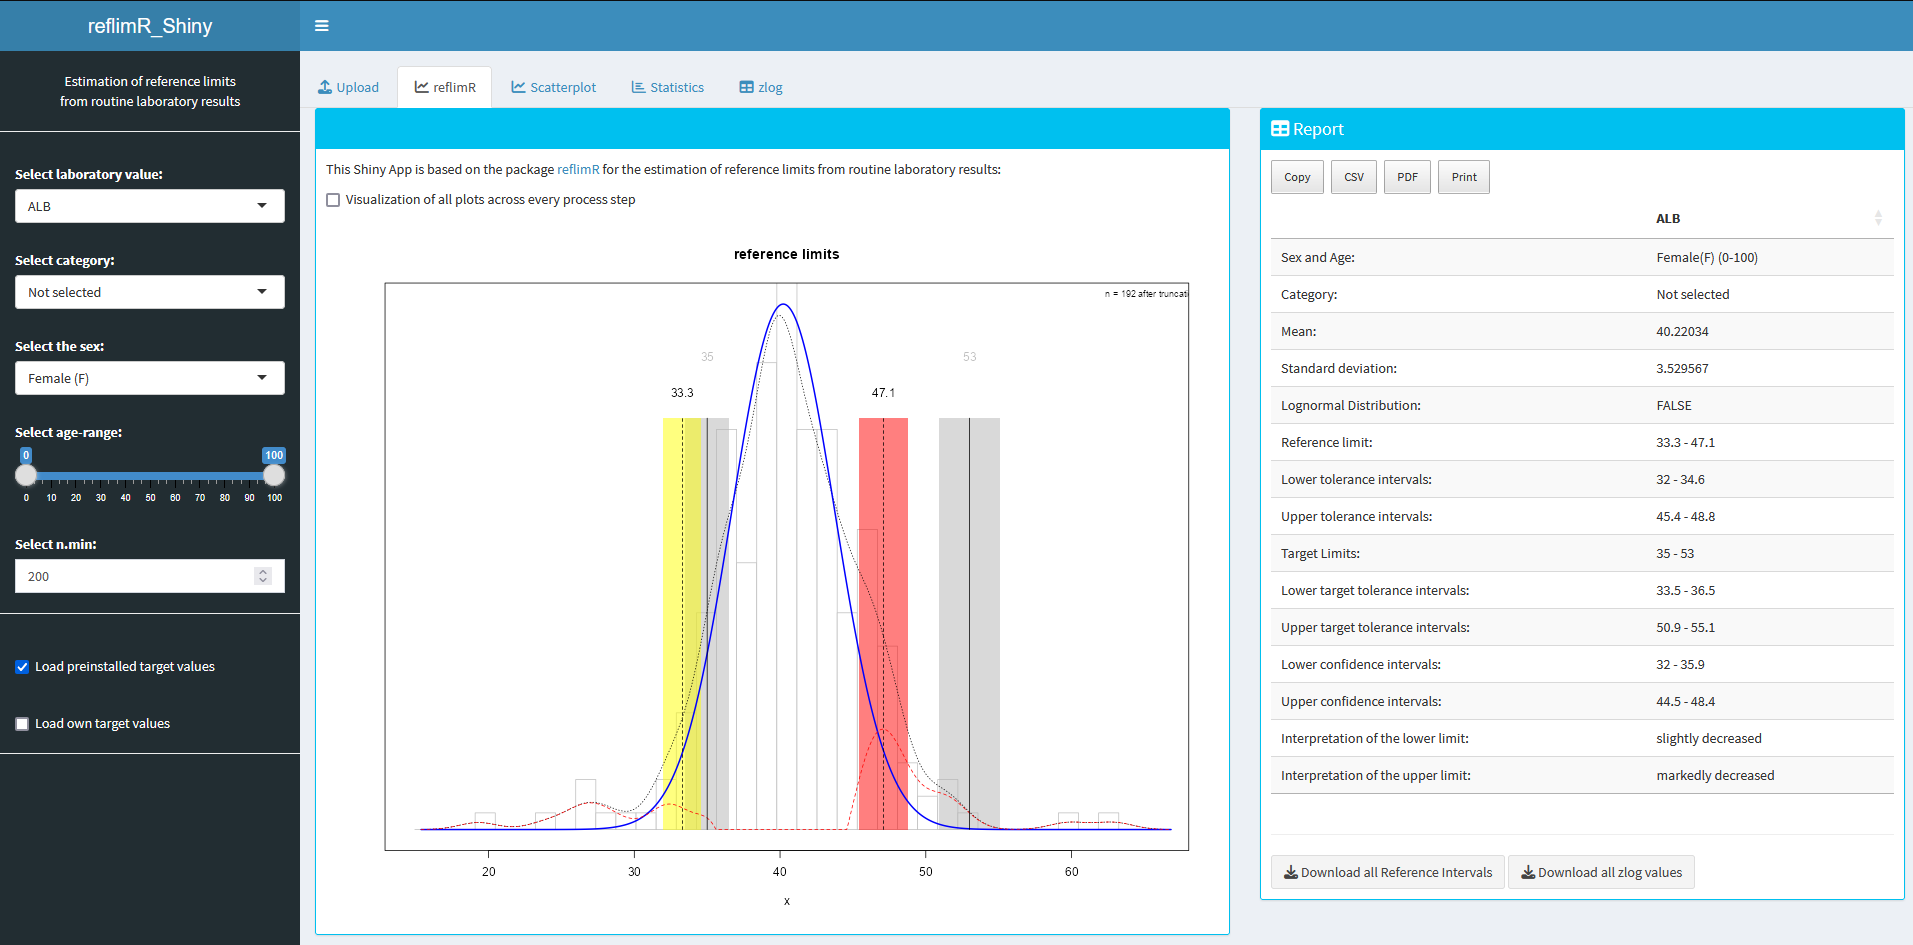
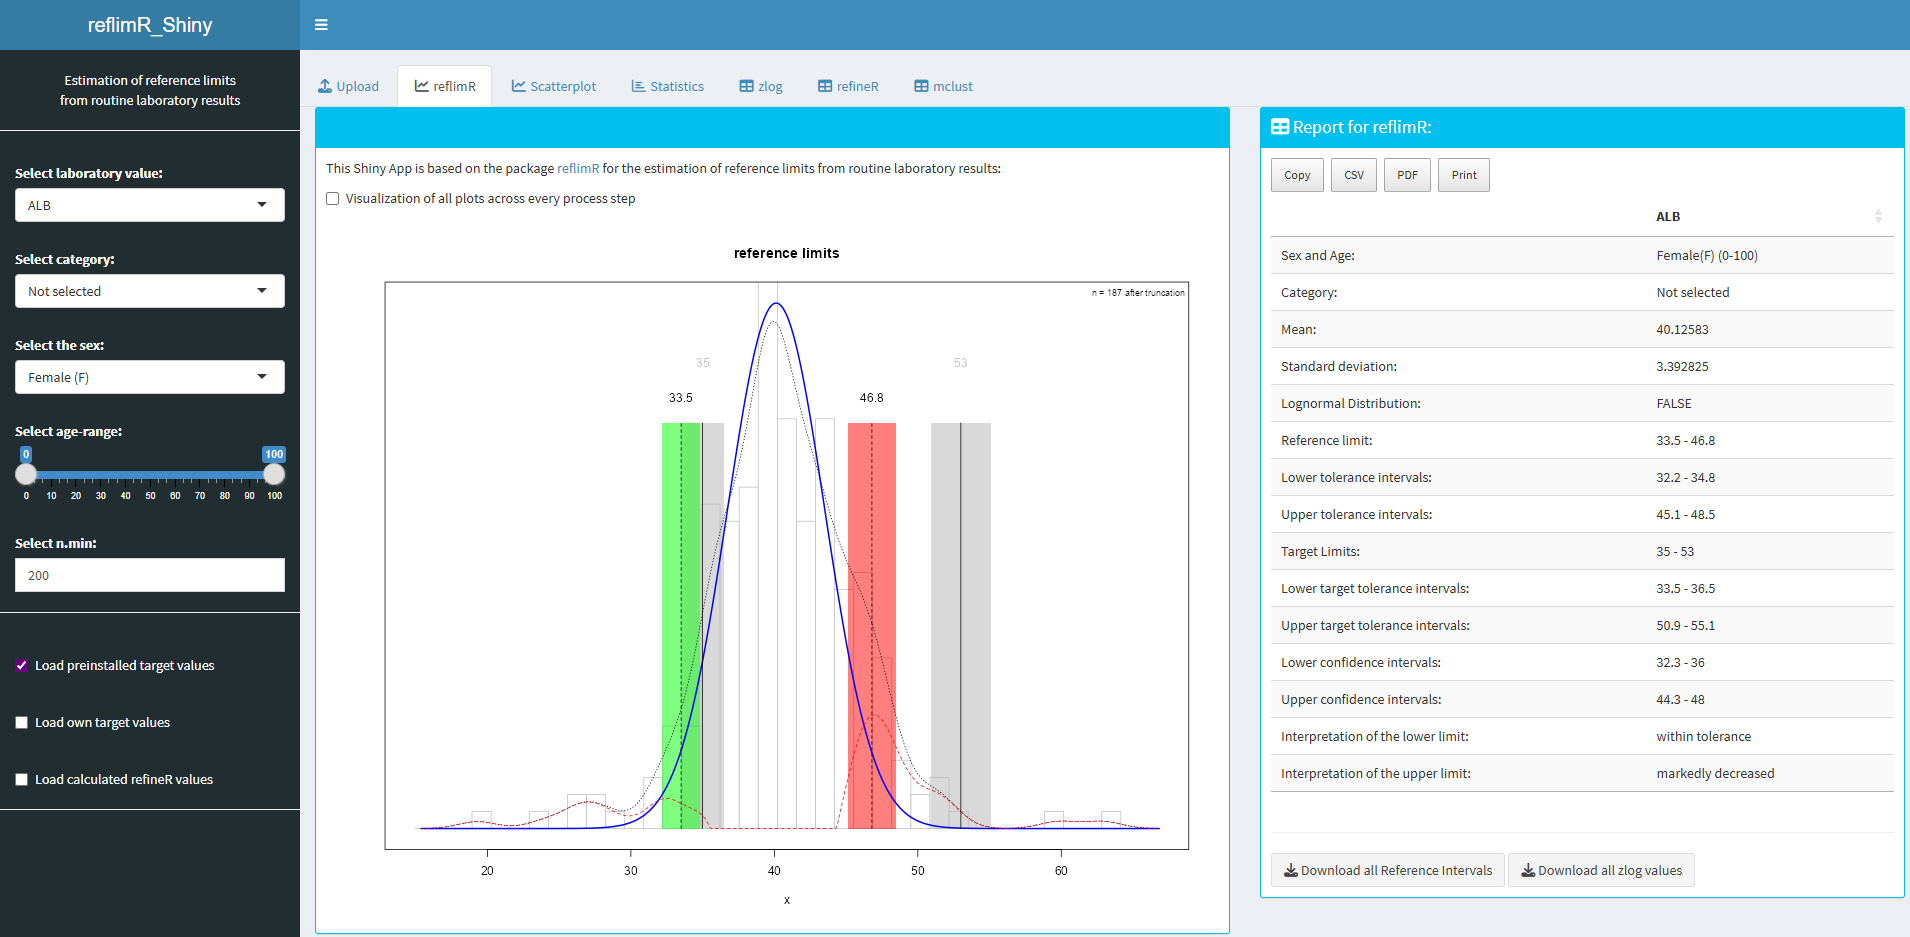
Add refineR and mclust tabs

diff --git a/README.md b/README.md
@@ -3,7 +3,7 @@
 ![](https://img.shields.io/github/license/SandraKla/reflimR_Shiny.svg)
 ![](https://img.shields.io/github/last-commit/SandraKla/reflimR_Shiny.svg)
 
-This Shiny App is based on the package [**reflimR**](https://cran.r-project.org/web/packages/reflimR/index.html) for the estimation of reference limits from routine laboratory results.
+This Shiny App is based on the package [**reflimR**](https://cran.r-project.org/web/packages/reflimR/index.html) for the estimation and verification of reference limits from routine laboratory results.
 
 ## Installation 
 
@@ -36,7 +36,7 @@ runApp("app.R")
 
 <img src="www/shiny.png" align="center"/>
 
-The package [reflimR](https://cran.r-project.org/web/packages/reflimR/index.html) (≥ 1.1.0), [DT](https://cran.r-project.org/web/packages/DT/index.html) (≥ 0.33) and [shinydashboard](https://cran.r-project.org/web/packages/shinydashboard/index.html) (≥ 0.7.2) is downloaded or imported when starting this app. The used [R](https://www.r-project.org)-Version must be ≥ 4.3.2.
+The package [reflimR](https://cran.r-project.org/web/packages/reflimR/index.html) (≥ 1.1.0) and [refineR](https://cran.r-project.org/web/packages/refineR/index.html) (≥ 2.0.0), [mclust](https://cran.r-project.org/web/packages/mclust/index.html) (≥ 6.1.2), [DT](https://cran.r-project.org/web/packages/DT/index.html) (≥ 0.33) and [shinydashboard](https://cran.r-project.org/web/packages/shinydashboard/index.html) (≥ 0.7.2) are downloaded or imported when starting this app. The used [R](https://www.r-project.org)-Version must be ≥ 4.5.2.
 
 ## Preloaded dataset
 Data from the [UC Irvine Machine Learning Repository](https://archive.ics.uci.edu/ml/datasets/HCV+data) showing *livertests* has been preloaded into this Shiny App. In addition, the corresponding reference intervals are stored in *targetvalues*. The reference interval table has been derived from the data published in the [Clinical Laboratory Diagnostics](https://www.clinical-laboratory-diagnostics.com) by Lothar Thomas, MD.
@@ -53,7 +53,12 @@ The data from *livertests* serves as a [template](https://github.com/SandraKla/r
 
 ## Usage
 
-On the left side, you can use the sidebar to choose the laboartory parameter, category and age and gender. Below in the "Target Values" section, you can load the data from *targetvalues* or enter your own values. In the "Upload" tab, you can upload new data. In the main tab "reflimR", you will see the corresponding plot and the outputs from ```reflimR()```. By clicking on "Visualization of all plots across every process step", all the plots from the different steps can be displayed.
+On the left side, the sidebar allows you to select the laboratory parameter, category, age and gender group. In the “Target Values” section, you can load target values from *targetvalues*, load reference intervals estimated with *refineR*, or manually enter custom values.
+In the “Upload” tab, new datasets can be uploaded. The main tab, “reflimR”, displays the corresponding plot and the outputs of the ```reflim()``` function, providing an estimation of new reference intervals or a verification of the selected target values. 
+By clicking “Visualization of all plots across every process step”, all plots generated throughout the workflow can be displayed.
+
+If, during the verification with *reflimR* and its target values or own target values, a yellow or red bar appears, a follow-up analysis using *refineR* is recommended in the "refineR" tab. The resulting reference intervals from *refineR* can be used as new target values and re-verified with *reflimR*.
+If all indicators turn green, this suggests that the manufacturer’s target values are likely incorrect. If one or more indicators remain yellow or red, the data are considered too challenging for indirect methods. This assumption can be further evaluated in the “mclust” tab using a Gaussian mixture model (*mclust*).
 
 zlog values are calculated from the dataset and the calculated reference intervals under the "zlog" tab. The lower reference limits (LL) and upper reference limits (UL) can transform any result x into a zlog value using the following equation: 
 
@@ -68,4 +73,5 @@ You are welcome to:
 - Make a pull request on: https://github.com/SandraKla/reflimR_Shiny/pulls
 - Write an email with any questions and problems to: s.klawitter@ostfalia.de
 
-Link to the publication: [A Novel Tool for the Rapid and Transparent Verification of Reference Intervals in Clinical Laboratories](https://doi.org/10.3390/jcm13154397)
+Link to the publication: 
+- [A Novel Tool for the Rapid and Transparent Verification of Reference Intervals in Clinical Laboratories](https://doi.org/10.3390/jcm13154397)
